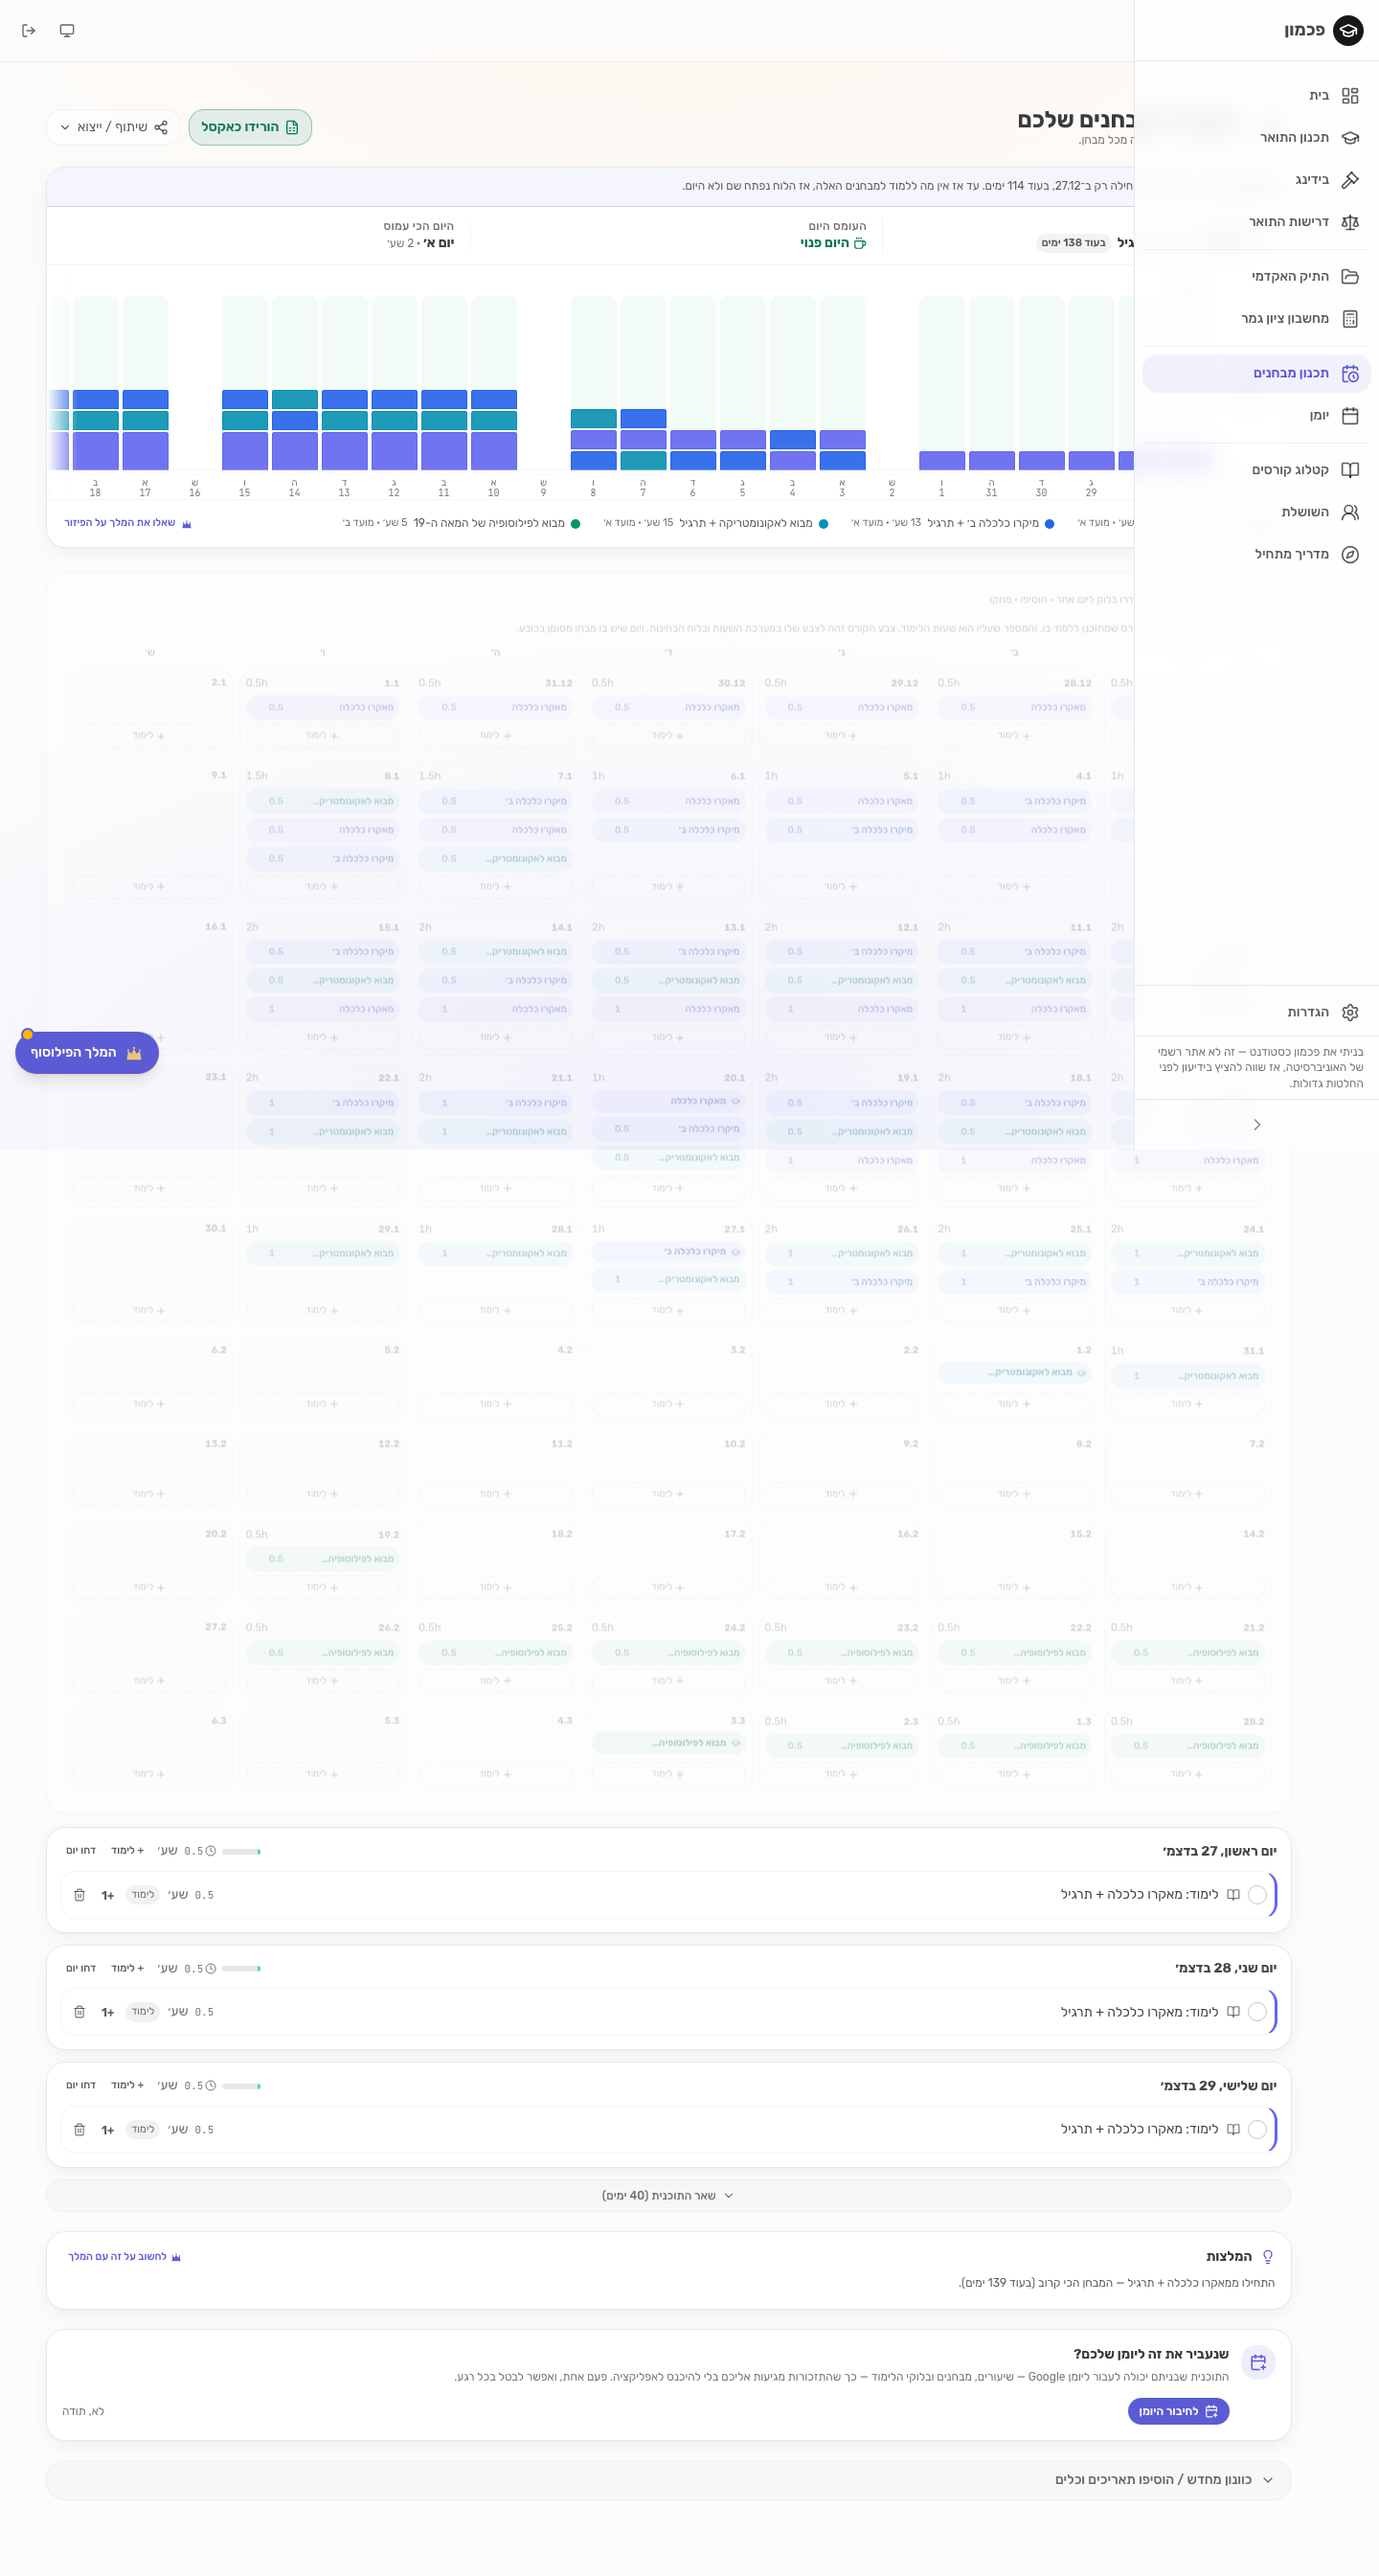
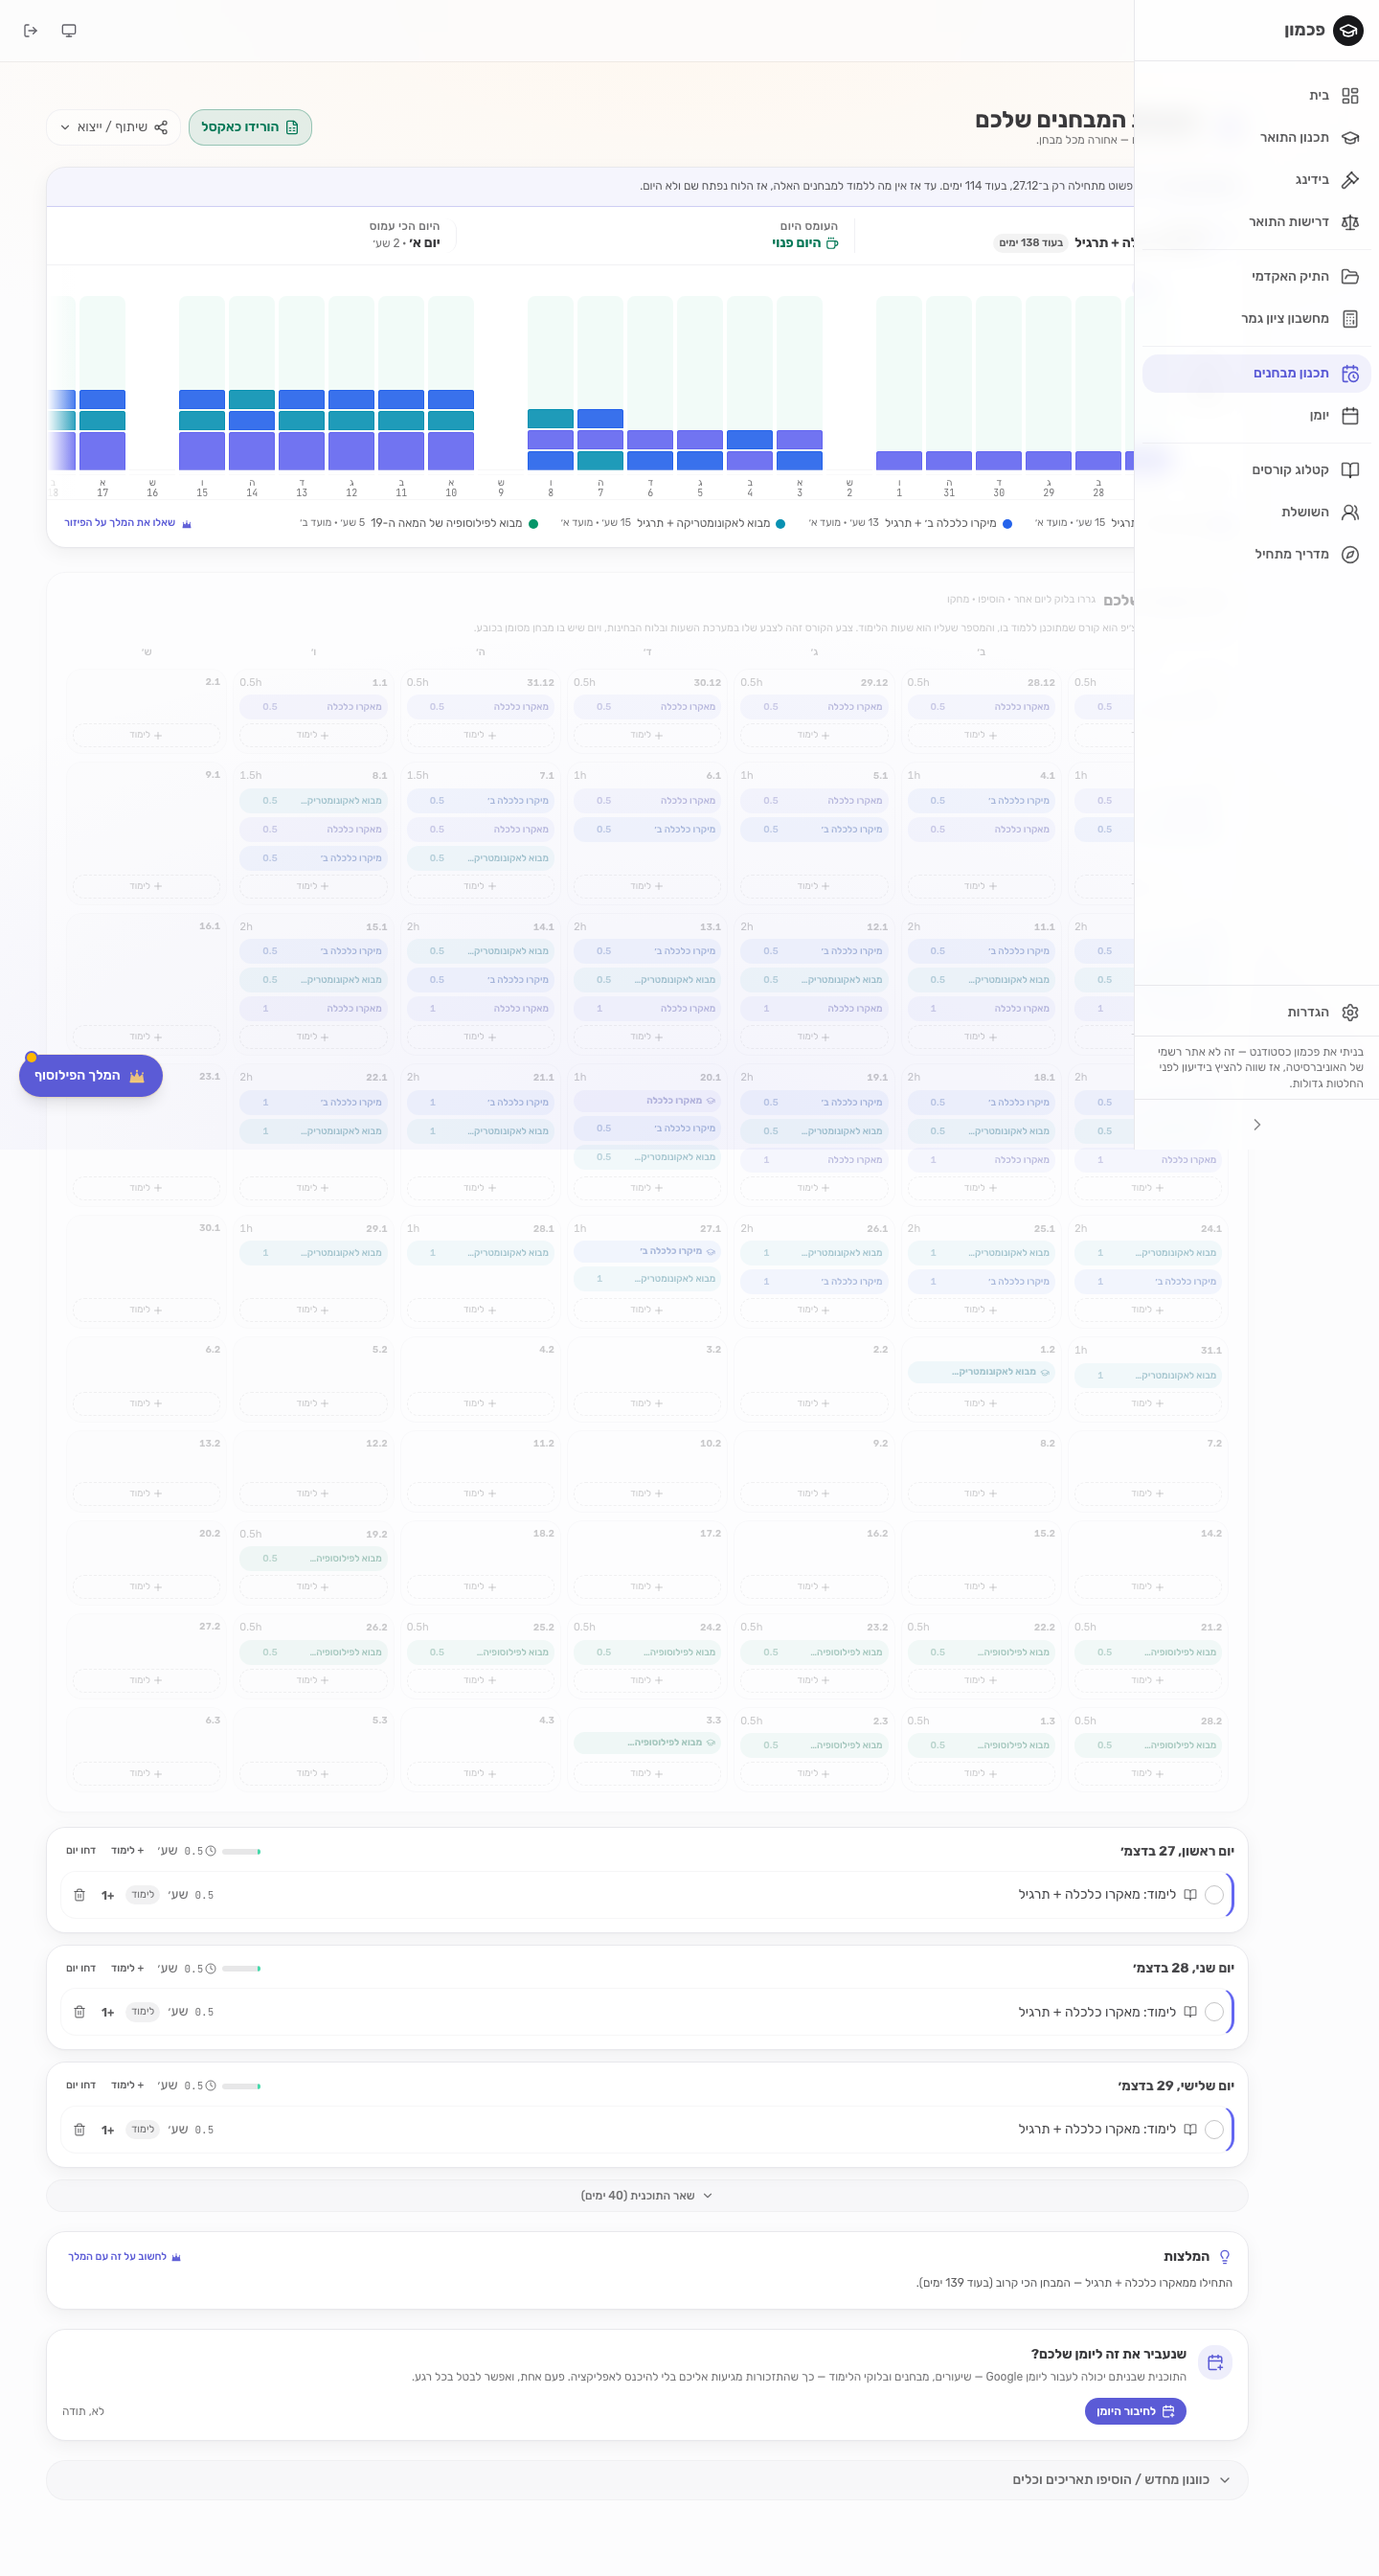
ליטוש אחרי החלפת המחוון — שאריות שהצילום החי חשף
צילמתי את המסך אחרי הפריסה והסתכלתי, ומצאתי שלושה דברים שהתיקון שלי
עצמו השאיר:

1. המקרא מתחת לסרגל המשקלים המשיך להראות עיגול צבעוני לפלחים שהסרגל
   כבר מצייר ריקים. מפתח-צבע שמבטיח צבע שאין בסרגל הוא אותה סתירה
   בקטן. עכשיו העיגול מקווקו כשאין ציון.

2. הקופי מעל הבורר עדיין אמר "הסרגל מתחיל שם" — על פקד שהסרתי לפני
   שעה. "משם מתחילים".

3. `sliderMin` שונה ל-`targetFloor`. הרצפה זהה; רק הפקד שמכבד אותה
   התחלף, והשם המשיך להצביע על מה שכבר לא קיים.

diff --git a/src/components/graduation/grade-calculator-content.tsx b/src/components/graduation/grade-calculator-content.tsx
@@ -127,7 +127,14 @@ function WeightBreakdownBar({
       <div className="grid gap-3 sm:grid-cols-3">
         {segments.map((seg) => (
           <div key={seg.label} className="flex items-center gap-2 text-sm">
-            <div className={cn("h-3 w-3 rounded-sm", seg.color)} />
+            {/* המקרא הוא מפתח־צבע לסרגל. אם הסרגל מצייר את הפלח ריק, עיגול
+                צבעוני כאן מבטיח צבע שאין — אותה סתירה בקטן. */}
+            <div
+              className={cn(
+                "h-3 w-3 rounded-sm",
+                seg.grade !== null ? seg.color : "border border-dashed border-foreground/30",
+              )}
+            />
             <div className="flex flex-col">
               <span className="text-xs font-medium text-foreground/70">
                 {seg.label}
@@ -288,8 +295,12 @@ function ReverseCalculator({
   //
   // A reverse calculator only answers one question — "what do I need in what's
   // left to get HIGHER than I am now" — so it now opens on the next whole point
-  // above the student's current average, and the slider will not travel below
-  // that average, because every target underneath it is already met.
+  // above the student's current average, and the target cannot go below that
+  // average, because every target underneath it is already met.
+  //
+  // (The control itself is no longer a slider — M37/N12/T11 replaced it with a
+  // number field + ±. The floor below is the same floor; only the widget that
+  // respects it changed.)
   const currentAvg = useMemo(() => {
     const done = canonicalAttempts(allCourses.filter(countsTowardAverage), {
       preferHigherGrade: preferHigherGradeFlag,
@@ -299,7 +310,7 @@ function ReverseCalculator({
     return done.reduce((s, c) => s + (c.grade ?? 0) * c.course.credits, 0) / cr;
   }, [allCourses, preferHigherGradeFlag]);
 
-  const sliderMin = currentAvg == null ? 60 : Math.min(99, Math.floor(currentAvg));
+  const targetFloor = currentAvg == null ? 60 : Math.min(99, Math.floor(currentAvg));
   const defaultTarget = currentAvg == null ? 85 : Math.min(100, Math.floor(currentAvg) + 1);
   const [target, setTarget] = useState(defaultTarget);
   // A student who enters their first grades mid-session must not be left with a
@@ -414,13 +425,13 @@ function ReverseCalculator({
           <p className="text-xs text-foreground/50">
             {isHe ? (
               <>
-                ממוצע הקורסים שלכם עכשיו <Bidi text={currentAvg.toFixed(1)} />. הסרגל מתחיל שם,
+                ממוצע הקורסים שלכם עכשיו <Bidi text={currentAvg.toFixed(1)} />. משם מתחילים,
                 כי כל יעד נמוך יותר כבר הושג.
               </>
             ) : (
               <>
-                Your course average is <Bidi text={currentAvg.toFixed(1)} /> right now. The slider
-                starts there, because every target below it is already met.
+                Your course average is <Bidi text={currentAvg.toFixed(1)} /> right now. That is
+                where the target starts, because every target below it is already met.
               </>
             )}
           </p>
@@ -428,7 +439,7 @@ function ReverseCalculator({
         <GradeStepper
           value={target}
           onChange={setTarget}
-          min={sliderMin}
+          min={targetFloor}
           ariaLabel={t("targetScore")}
         />
       </div>
